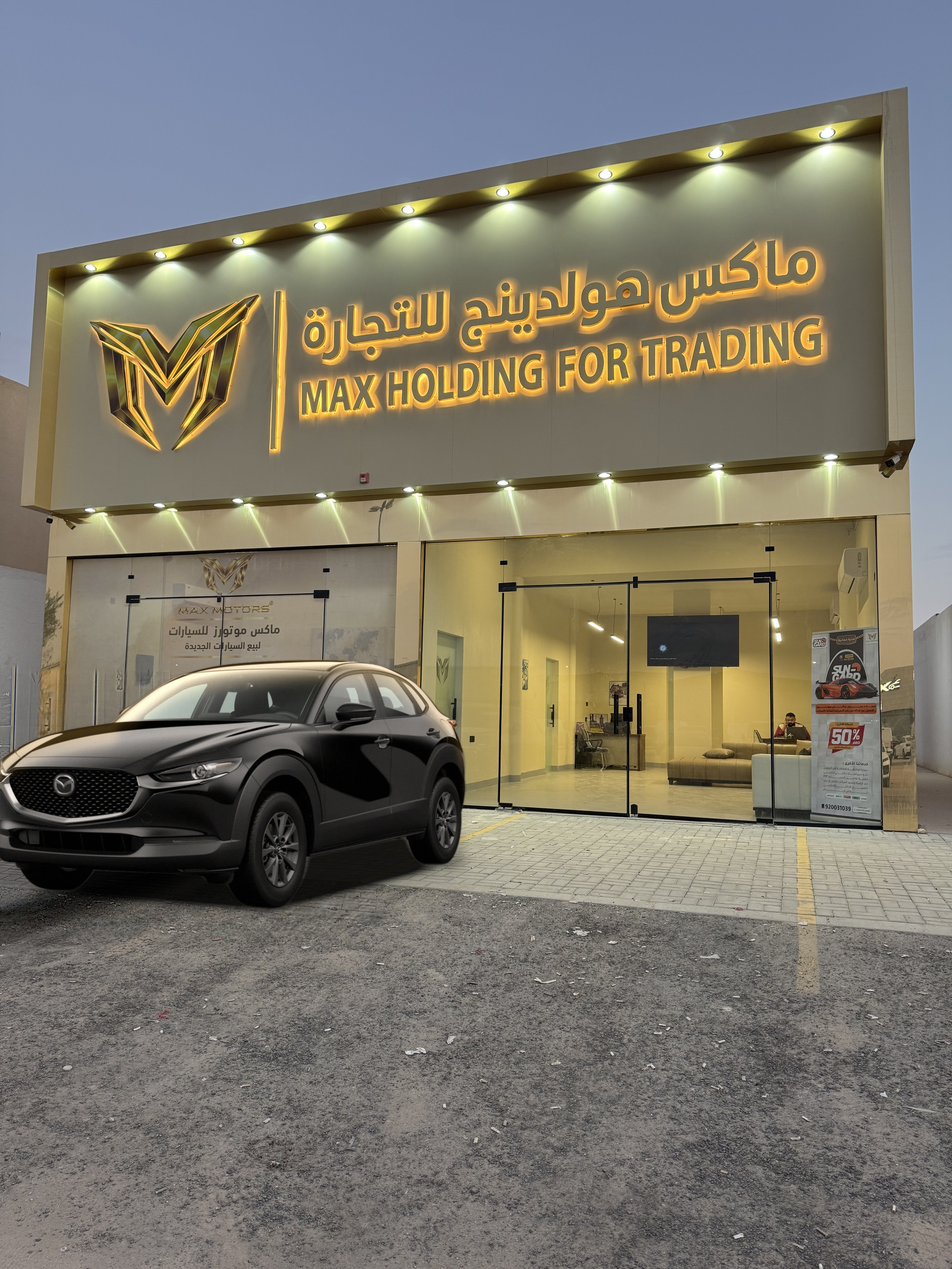
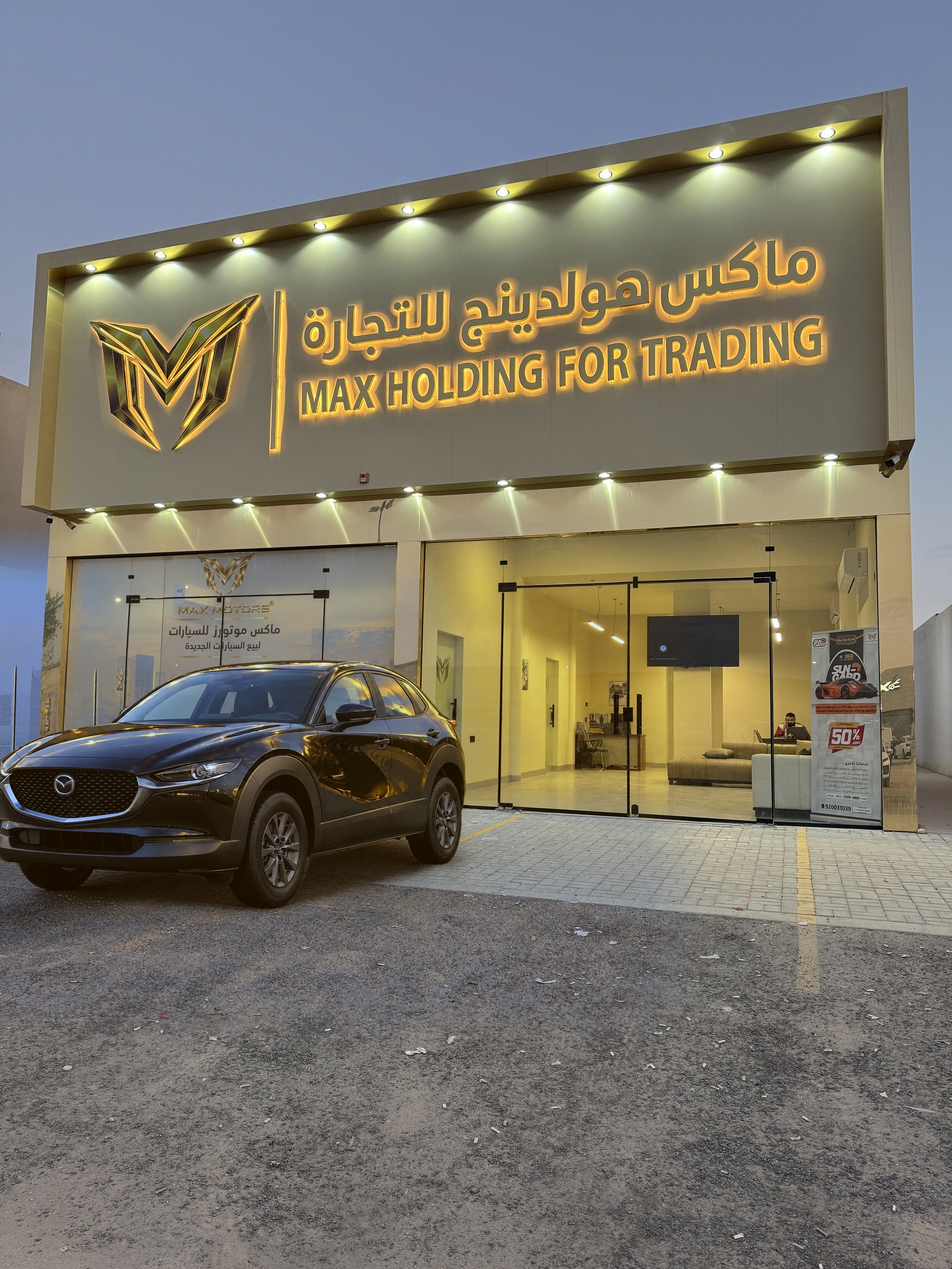
Mazda showroom photos: AI photoreal harmonisation of the car area (GPT Image 2.5), merged back into the original dusk photos
Claude-Session: https://claude.ai/code/session_013TYQJG1dCkVjYNVz2U9GyP

Changed region(s): [[0.0, 0.4051, 0.7087, 0.8102]]

diff --git a/production/code/mazda/mz_comp.py b/production/code/mazda/mz_comp.py
@@ -46,11 +46,27 @@ for x in range(max(valid[0], fx - pad), min(valid[-1], rx + pad) + 1):
 core = cv2.GaussianBlur(core, (0, 0), w * 0.007)
 amb = cv2.GaussianBlur(amb, (0, 0), w * 0.035)
 out = bg * (1 - np.clip(E('SH', 0.78) * core + E('AMB', 0.35) * amb, 0, 0.88))[..., None]
+# environment reflection: the lit facade behind the car, mirrored and blurred, screened onto the paint;
+# strongest on the upper body and glass, fading towards the sills
+yv, xv = slice(max(0, y0), min(H, y0 + ch)), slice(max(0, x0), min(W, x0 + cw))
+env_src = bg[max(0, y0 - ch):max(1, y0), :]
+env_src = cv2.resize(env_src[::-1], (W, ch), interpolation=cv2.INTER_AREA)[:, max(0, x0):min(W, x0 + cw)]
+env = cv2.GaussianBlur(env_src, (0, 0), w * 0.012)
+ef = np.zeros((ch, cw, 1), np.float32); ef[yv.start - y0:yv.stop - y0, xv.start - x0:xv.stop - x0] = 1
+env_full = np.zeros((ch, cw, 3), np.float32); env_full[yv.start - y0:yv.stop - y0, xv.start - x0:xv.stop - x0] = env
+grad = np.clip(1.2 - yy[..., 0] * 1.3, 0.15, 1)[..., None]
+dark = (rgb.mean(2, keepdims=True) < 0.25).astype(np.float32)           # glass / black trim takes reflections strongly
+refl = E("REFL", 0.16) * grad * (1 + E("GLASS", 0.3) * dark) * ef
+rgb = 1 - (1 - rgb) * (1 - np.clip(env_full * refl, 0, 1))
 # match the phone photo: a touch of softness and sensor noise
 rgb = cv2.GaussianBlur(rgb, (0, 0), E('BLUR', 0.6)); a = cv2.GaussianBlur(a[..., 0], (0, 0), 0.8)[..., None]
-rgb = np.clip(rgb + np.random.default_rng(3).normal(0, E('NOISE', 0.012), rgb.shape), 0, 1)
-yv, xv = slice(max(0, y0), min(H, y0 + ch)), slice(max(0, x0), min(W, x0 + cw))
+# light wrap: background colour bleeds over the cutout edge
+bgc = out[yv, xv]; edge = np.clip(1 - cv2.GaussianBlur(a[..., 0], (0, 0), 3)[yv.start - y0:yv.stop - y0, xv.start - x0:xv.stop - x0], 0, 1)[..., None]
 sa = a[yv.start - y0: yv.stop - y0, xv.start - x0: xv.stop - x0]; sr = rgb[yv.start - y0: yv.stop - y0, xv.start - x0: xv.stop - x0]
+sr = sr * (1 - 0.5 * edge * sa) + cv2.GaussianBlur(bgc, (0, 0), 6) * 0.5 * edge * sa
 out[yv, xv] = out[yv, xv] * (1 - sa) + sr * sa
+# one finish over the whole frame so car and photo share the same processing
+out = cv2.addWeighted(out, 1 + E('SHARP', 0.25), cv2.GaussianBlur(out, (0, 0), 1.2), -E('SHARP', 0.25), 0)
+out = out + np.random.default_rng(7).normal(0, E('NOISE', 0.010), out.shape).astype(np.float32)
 Image.fromarray((np.clip(out, 0, 1) * 255).astype(np.uint8)).save(out_p, quality=95)
 print('ok', out_p, cw, ch)

diff --git a/production/code/mazda/merge.py b/production/code/mazda/merge.py
@@ -1,0 +1,18 @@
+# paste an AI-harmonised crop back into the full photo: colour-match it on its border band, feather the edges
+import sys, numpy as np, cv2
+from PIL import Image
+full_p, ai_p, out_p = sys.argv[1:4]; x0, y0, x1, y1 = map(int, sys.argv[4:8])
+full = np.asarray(Image.open(full_p).convert('RGB')).astype(np.float32)
+orig = full[y0:y1, x0:x1]; h, w = orig.shape[:2]
+ai = cv2.resize(np.asarray(Image.open(ai_p).convert('RGB')).astype(np.float32), (w, h), interpolation=cv2.INTER_AREA)
+b = 110; band = np.zeros((h, w), bool); band[:b] = band[-b:] = True; band[:, :b] = band[:, -b:] = True
+band[:, :b] = False if x0 == 0 else band[:, :b]          # the left edge is the photo edge, not a seam
+for c in range(3):                                         # mean/std match on the seam band
+    o, a = orig[..., c][band], ai[..., c][band]
+    ai[..., c] = (ai[..., c] - a.mean()) / (a.std() + 1e-6) * o.std() + o.mean()
+m = np.ones((h, w), np.float32); f = 140
+ramp = lambda n: np.clip(np.arange(n) / f, 0, 1)
+m *= ramp(h)[:, None] * ramp(h)[::-1][:, None]
+m *= (ramp(w)[None, :] if x0 > 0 else 1) * ramp(w)[::-1][None, :]
+full[y0:y1, x0:x1] = orig * (1 - m[..., None]) + ai * m[..., None]
+Image.fromarray(np.clip(full, 0, 255).astype(np.uint8)).save(out_p, quality=95); print('ok', out_p)
